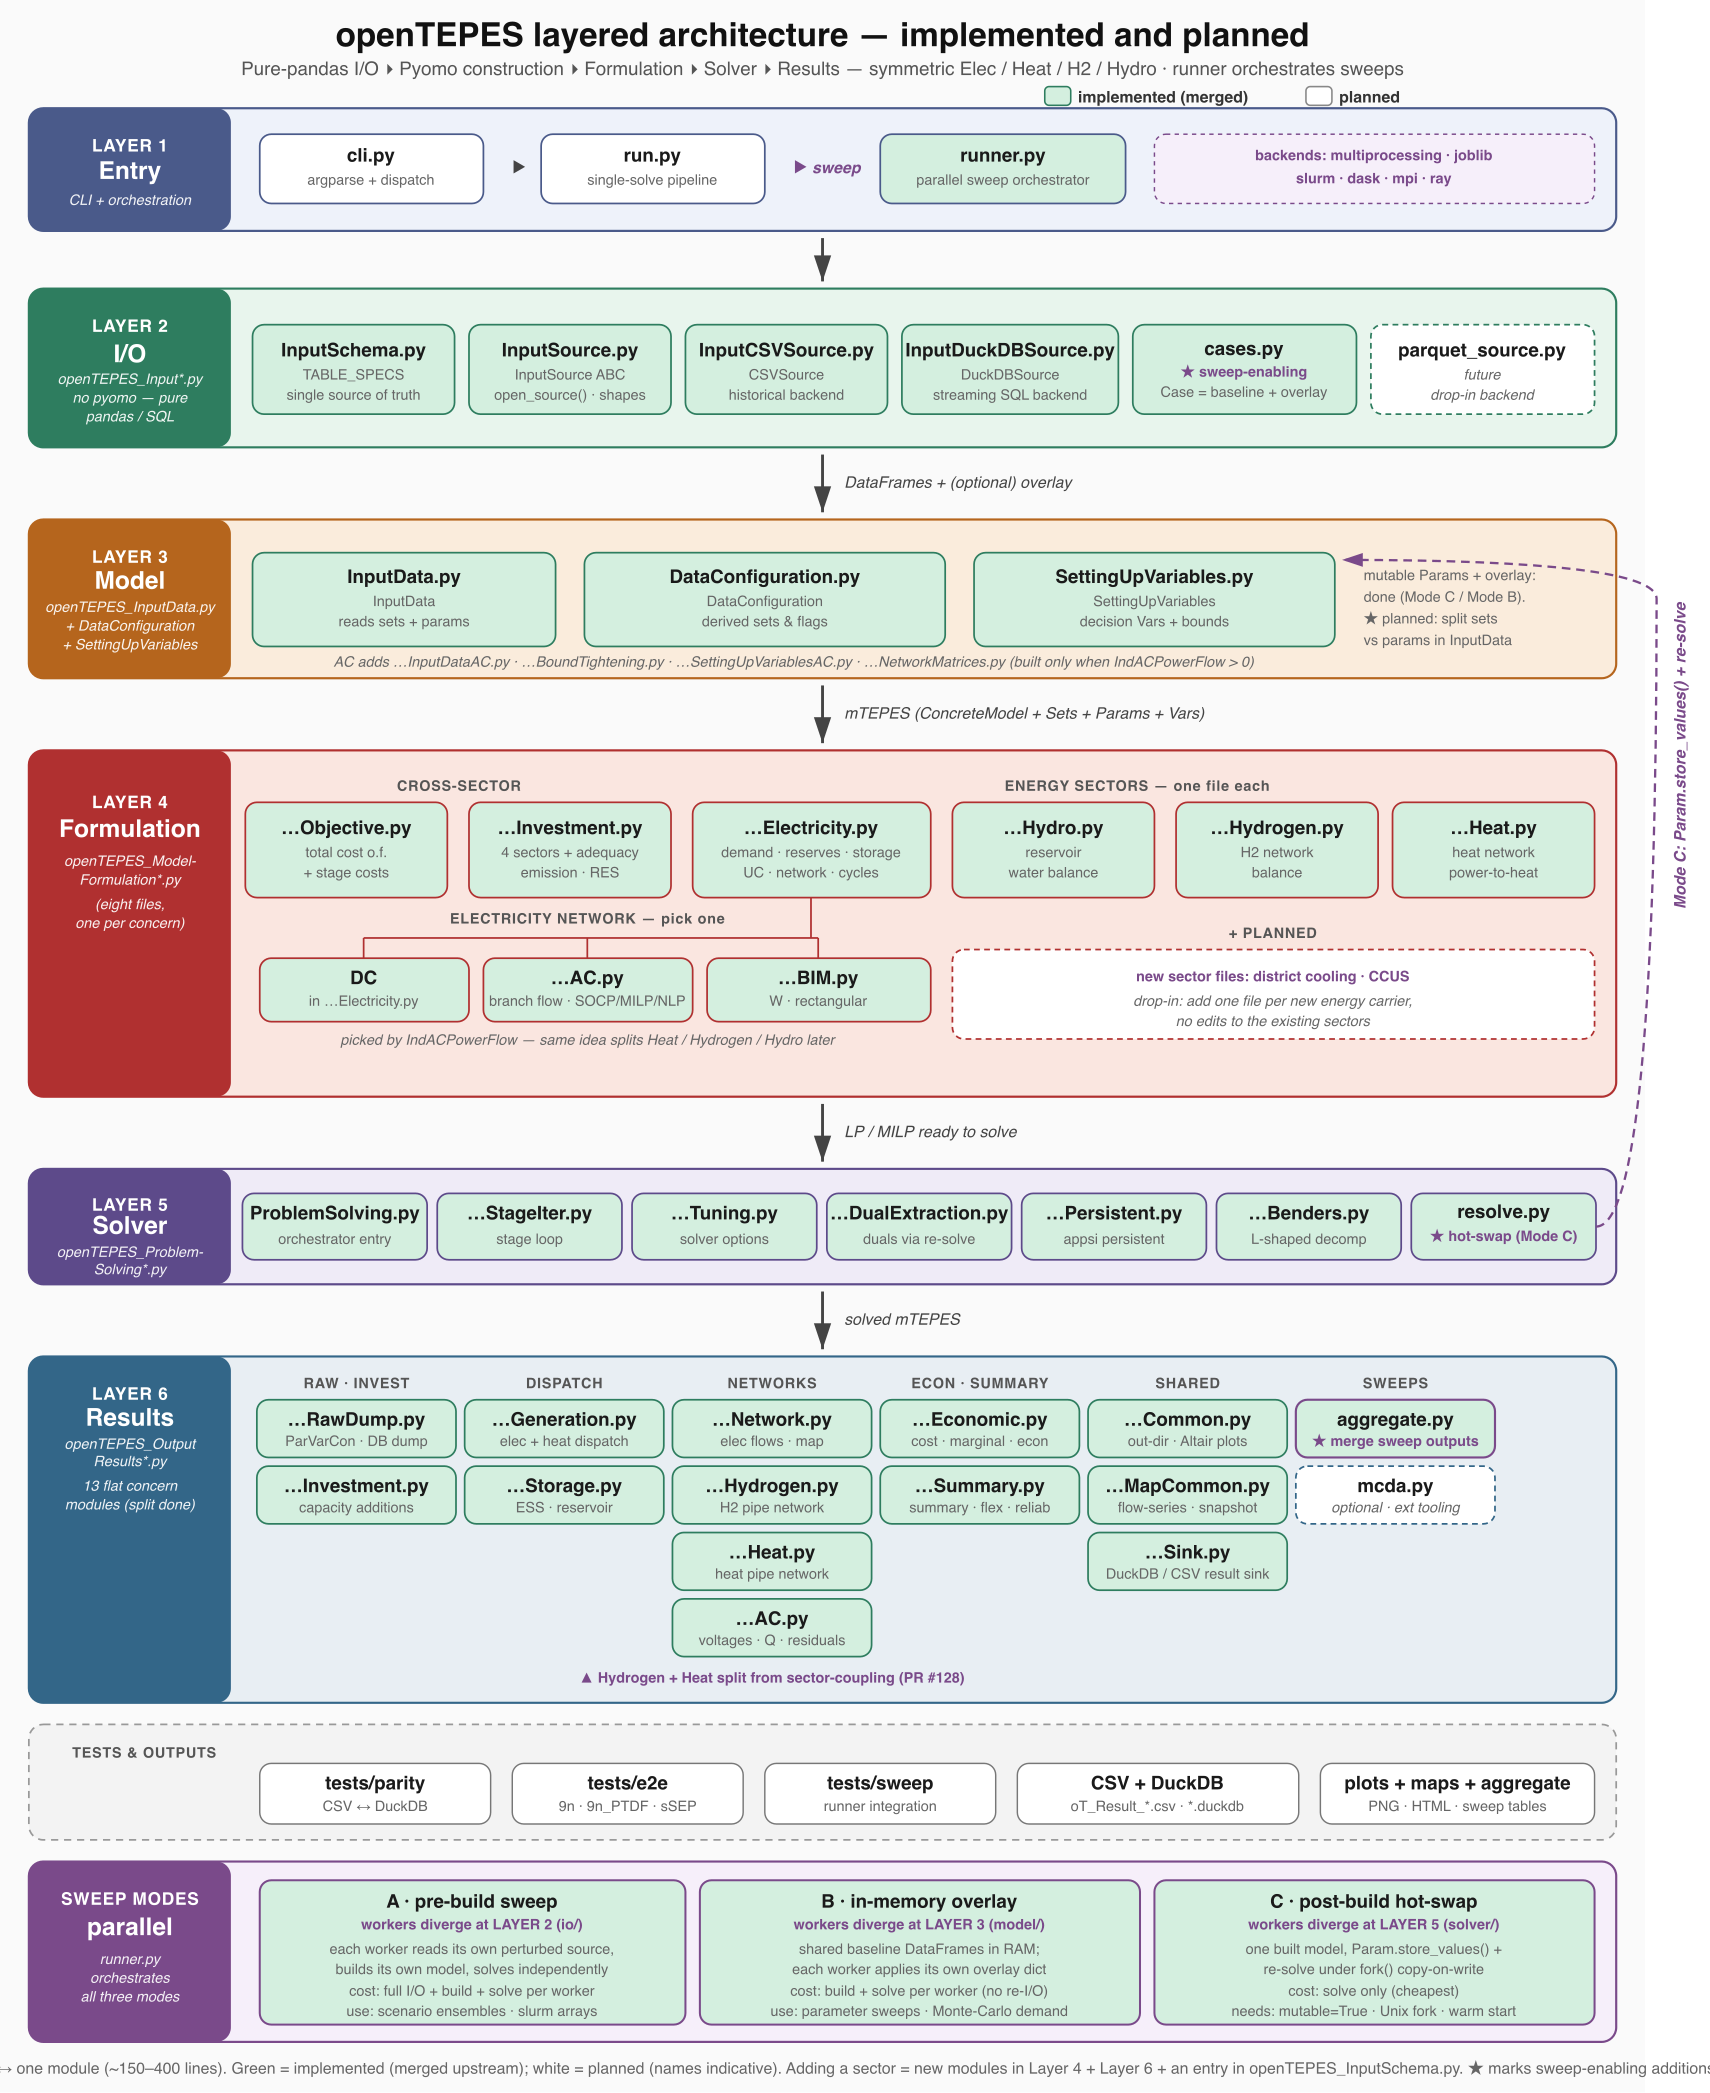
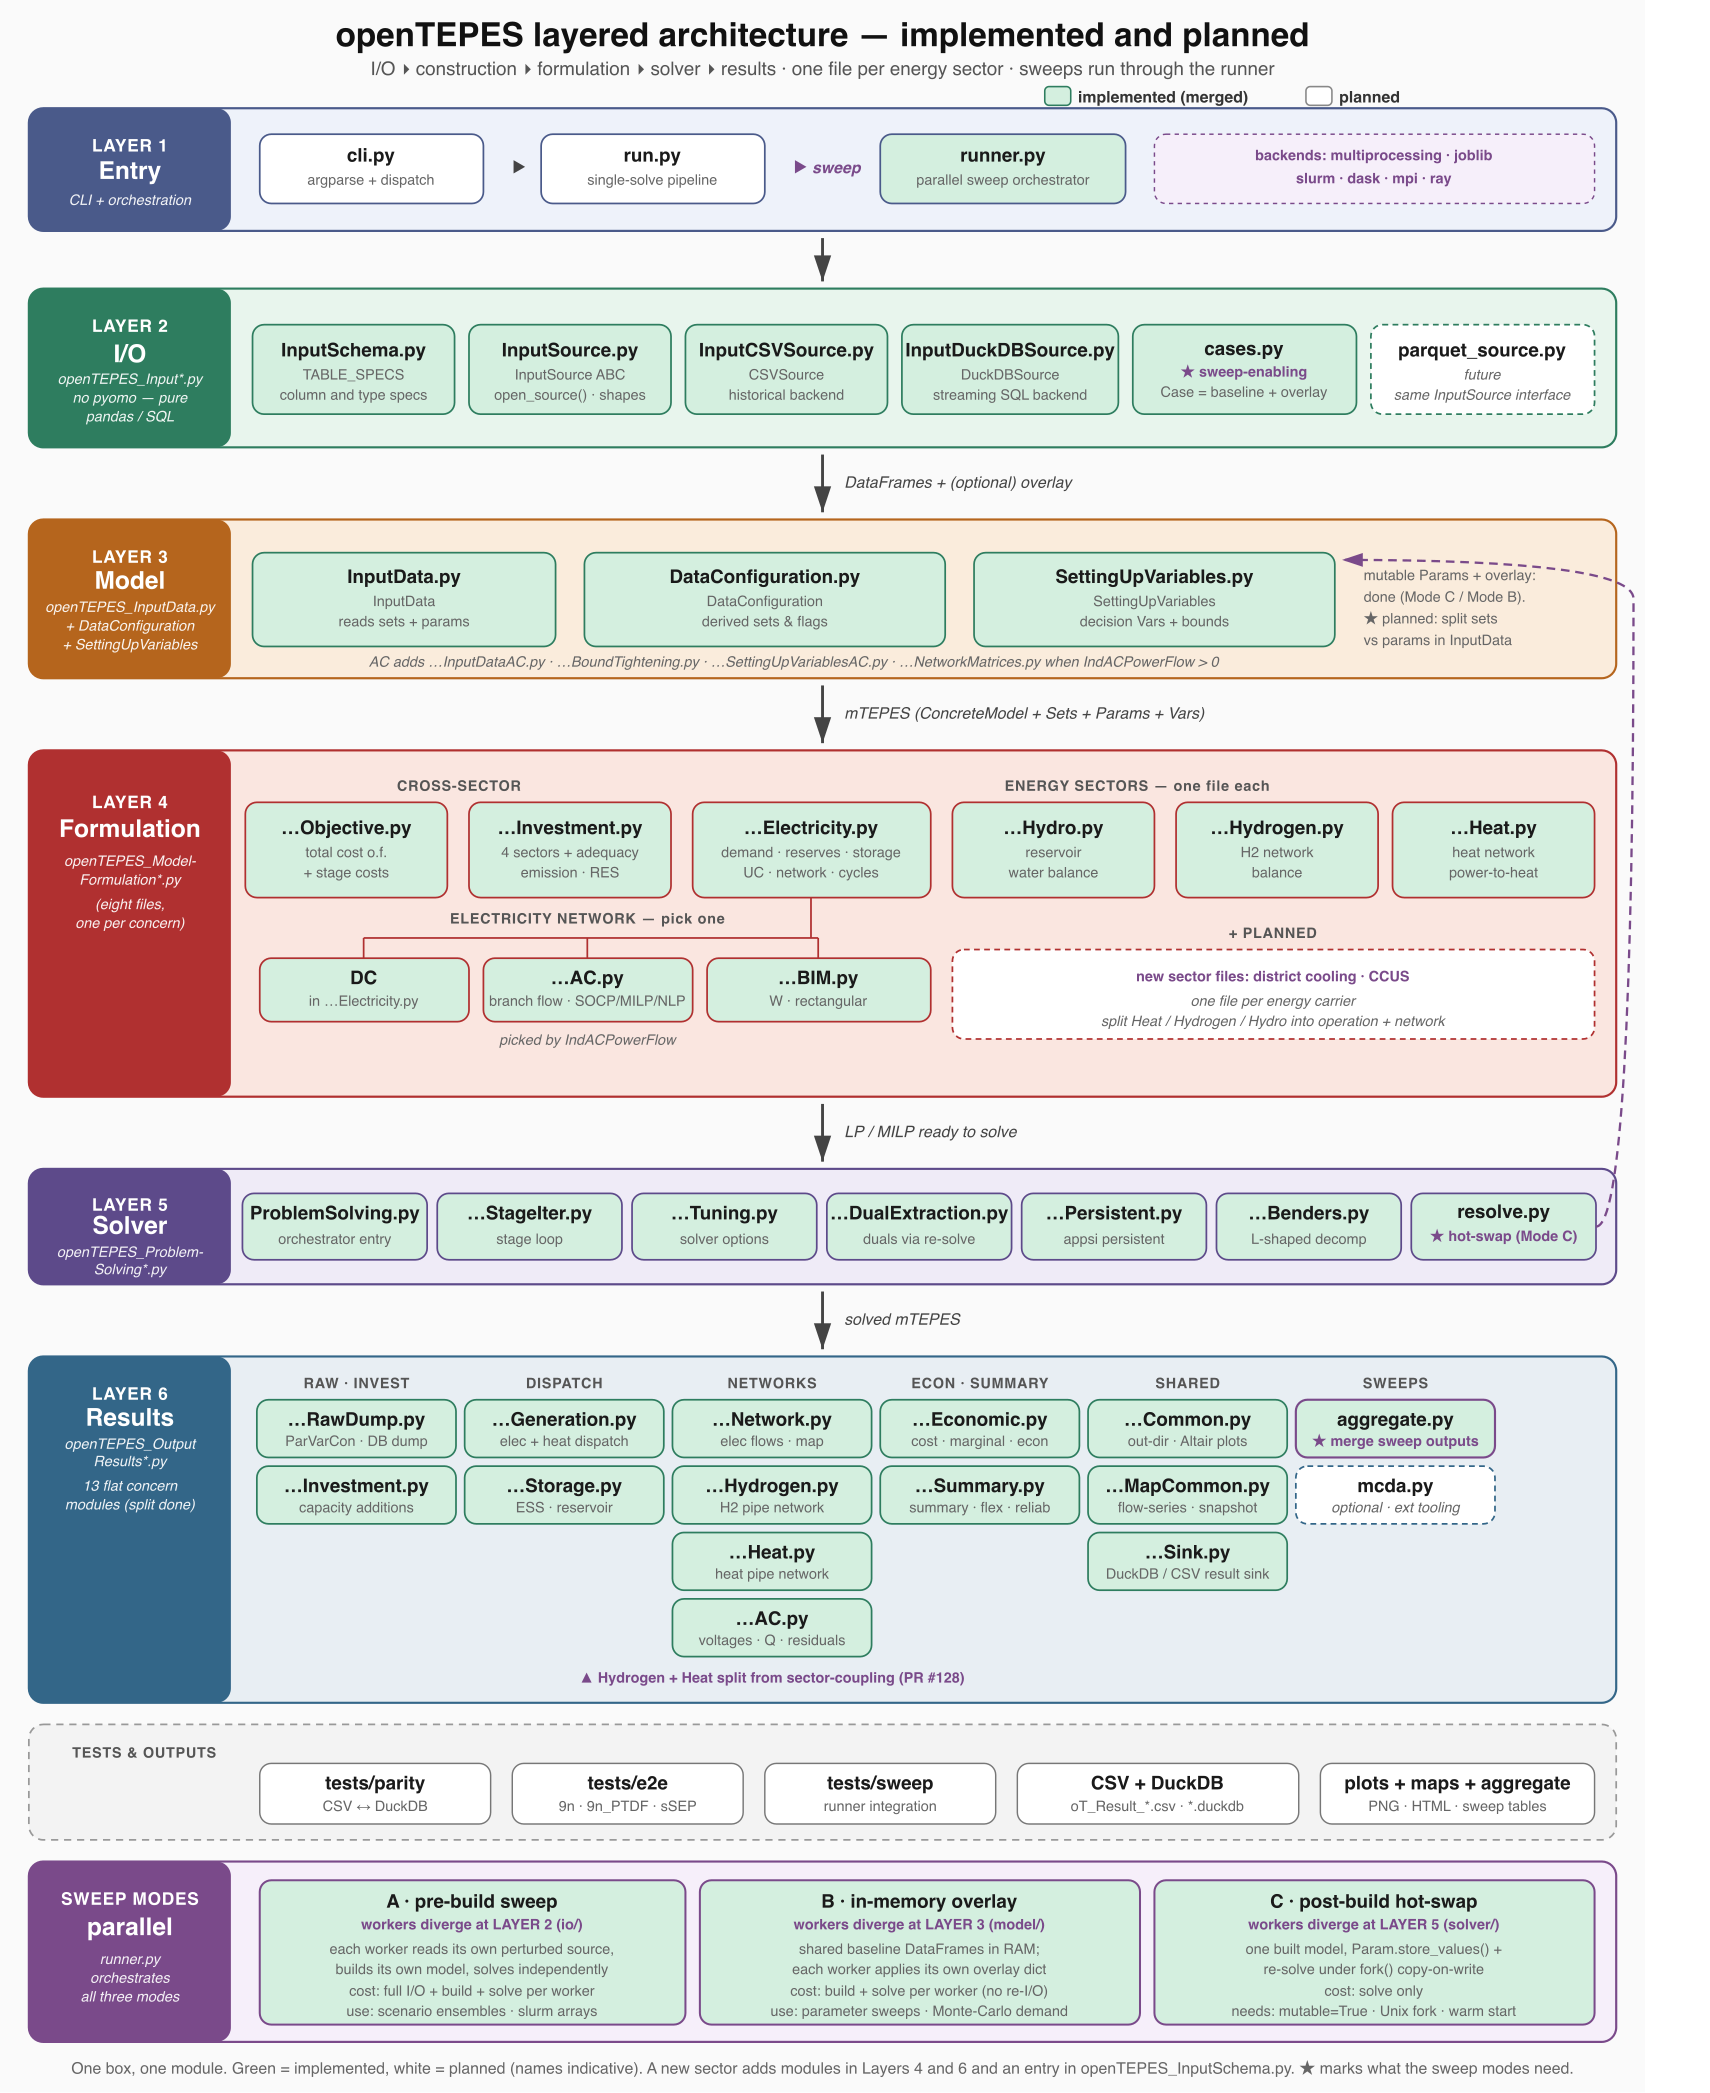
Fix the Mode C arrow in the architecture diagram and plainen its wording
The page background stopped 45 px short of the canvas, and the arrow from
resolve.py back to SettingUpVariables.py was routed through that unpainted
strip, so it appeared to run off the edge. The arrow now stays inside the page.
Its rotated label is gone: it repeated the sweep-modes panel word for word, and
removing it freed the space the arrow needed.

The footer ran off both edges and lost its opening words. It is shorter now and
fits.

Claims about the design gave way to descriptions of it. "single source of
truth" is "column and type specs", "drop-in backend" is "same InputSource
interface", and "cost: solve only (cheapest)" drops the judgement. The note
about splitting the other sectors moved back into the planned box, where it
belongs, having been left under an implemented group by the previous change.

The planned boxes were checked against the code. All five are still planned.

diff --git a/CHANGELOG.md b/CHANGELOG.md
@@ -2,6 +2,15 @@
 
 ## [4.18.18RC] - 2026-08-16 Unreleased in PyPI
 
+- [FIXED] the architecture diagram drew the Mode C arrow, from `resolve.py` back to `SettingUpVariables.py`, outside
+  the page background, which stopped 45 px short of the canvas. The arrow is routed inside it and its rotated label is
+  gone, because it repeated the sweep-modes panel word for word. The footer no longer runs off both edges.
+- [CHANGED] the wording in the architecture diagram is plainer. Claims about the design gave way to descriptions of it:
+  "single source of truth" is now "column and type specs", "drop-in backend" is "same InputSource interface", and
+  "cost: solve only (cheapest)" drops the judgement. The planned boxes were checked against the code and all five are
+  still planned: `parquet_source.py`, `mcda.py`, the district cooling and CCUS sector files, the sets-against-params
+  split in `InputData`, and the `cli.py` / `run.py` split, whose work is done today by `openTEPES_Main.py` and
+  `openTEPES.py` in one piece each.
 - [FIXED] the bus injection formulation in W space failed intermittently when the loop condition was off. `vTheta`
   appears in no constraint there, so the solver sets some nodes and leaves others unset, and which ones varies between
   runs. The guard that decides whether a nodal voltage phasor can be formed returned on the FIRST node it found, so
